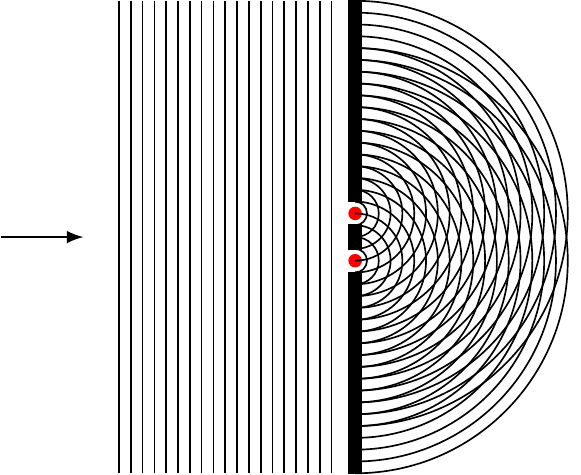
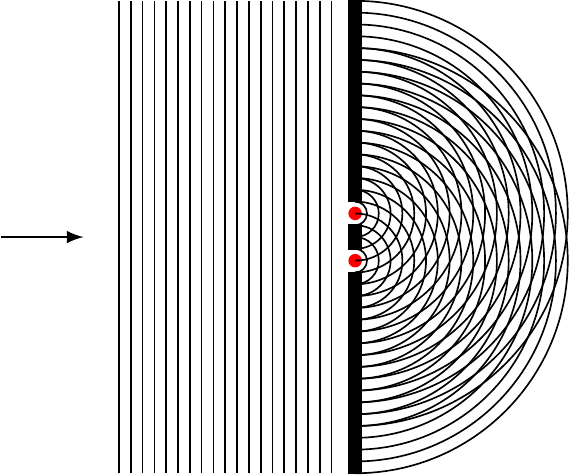
simplify wave drawing

diff --git a/optics/huygens-double-slit/huygens-double-slit_inverted.tex b/optics/huygens-double-slit/huygens-double-slit_inverted.tex
@@ -11,8 +11,6 @@
 
 \tikzset{>=latex}
 
-\usetikzlibrary{decorations.pathreplacing}
-
 \begin{document}
 \begin{tikzpicture}[inverted,inverted]
   % direction
@@ -30,7 +28,9 @@
   \draw[fill,red] (a) circle (0.05);
   \draw[fill,red] (b) circle (0.05);
   % circular waves
-  \draw[decoration={expanding waves,angle=90,segment length=0.1cm},decorate] (a) -- +(1.9,0);
-  \draw[decoration={expanding waves,angle=90,segment length=0.1cm},decorate] (b) -- +(1.9,0);
+  \foreach \r in {0.1,0.2,...,1.8} {
+    \draw (a)+(-90:\r) arc (-90:90:\r);
+    \draw (b)+(-90:\r) arc (-90:90:\r);
+  }
 \end{tikzpicture}
 \end{document}

diff --git a/optics/huygens-double-slit/huygens-double-slit.tex b/optics/huygens-double-slit/huygens-double-slit.tex
@@ -2,8 +2,6 @@
 
 \tikzset{>=latex}
 
-\usetikzlibrary{decorations.pathreplacing}
-
 \begin{document}
 \begin{tikzpicture}
   % direction
@@ -21,7 +19,9 @@
   \draw[fill,red] (a) circle (0.05);
   \draw[fill,red] (b) circle (0.05);
   % circular waves
-  \draw[decoration={expanding waves,angle=90,segment length=0.1cm},decorate] (a) -- +(1.9,0);
-  \draw[decoration={expanding waves,angle=90,segment length=0.1cm},decorate] (b) -- +(1.9,0);
+  \foreach \r in {0.1,0.2,...,1.8} {
+    \draw (a)+(-90:\r) arc (-90:90:\r);
+    \draw (b)+(-90:\r) arc (-90:90:\r);
+  }
 \end{tikzpicture}
 \end{document}
